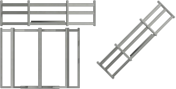
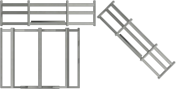
* Sendemast: Kleine Verbesserungen.

Changed region(s): [[0.5398, 0.0, 1.0, 0.8989]]

diff --git a/CMC_Area51.c4s/ClonkGeistObjects.c4d/AntennaTower.c4d/Script.c b/CMC_Area51.c4s/ClonkGeistObjects.c4d/AntennaTower.c4d/Script.c
@@ -13,7 +13,7 @@ public func IsDestroyed()	{return fDestroyed;}
 
 protected func Initialize()
 {
-  SetAction("Be");
+  SetAction("Stand");
   aRopeHolders = [];
   iLastDmgPlr = -1;
 }
